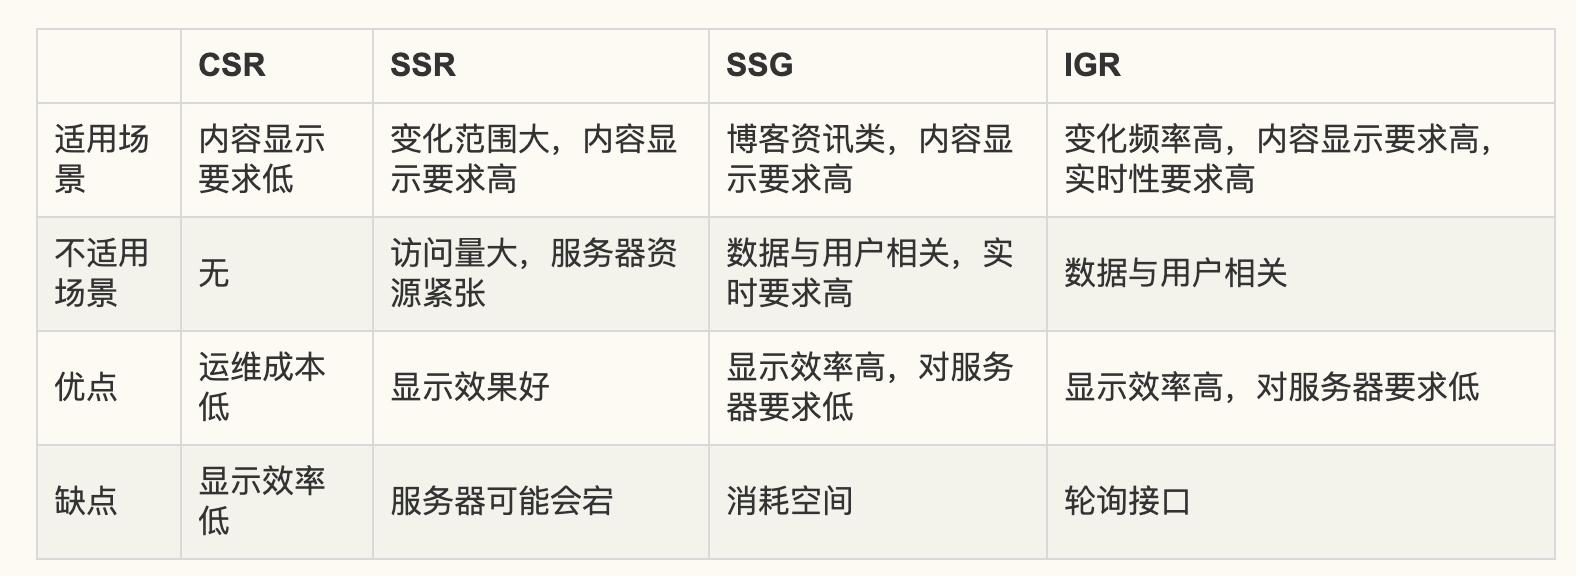
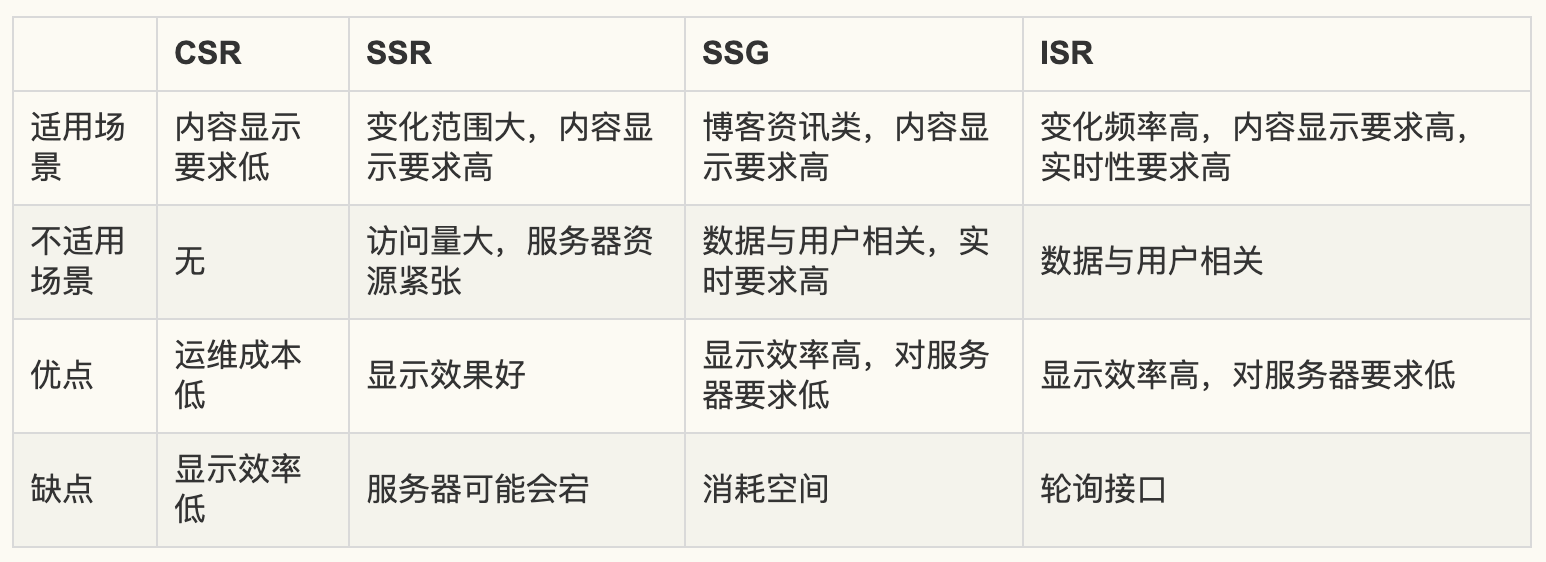
isr代码调整

diff --git a/md/isr.md b/md/isr.md
@@ -43,6 +43,16 @@
 
 ----
 
+```javascript
+export async function getStaticProps(context) {
+  return {
+    props: {}, // will be passed to the page component as props
+  }
+}
+```
+
+----
+
 ### JAMSTACK
 
 - JAMStack = 现代 SSG 框架 + DevOps + Serverless
@@ -57,9 +67,38 @@
 
 ----
 
+```javascript
+export async function getServerSideProps(context) {
+  return {
+    props: {}, // will be passed to the page component as props
+  }
+}
+```
+
+----
+
 ### IGR
 
 ![isr](https://keynote.vercel.app/img/isr-isr.png)
+
+----
+
+```javascript
+export async function getStaticProps() {
+  const res = await fetch('https://.../posts')
+  const posts = await res.json()
+
+  return {
+    props: {
+      posts,
+    },
+    // Next.js will attempt to re-generate the page:
+    // - When a request comes in
+    // - At most once every second
+    revalidate: 1, // In seconds
+  }
+}
+```
 
 ----
 
@@ -67,7 +106,7 @@
 
 ----
 
-省CDN空间 + 数据变化快 + 无服务器压力 = IGR
+省CDN空间 + 数据变化快 + 无服务器压力 = ISR
 
 ----
 
